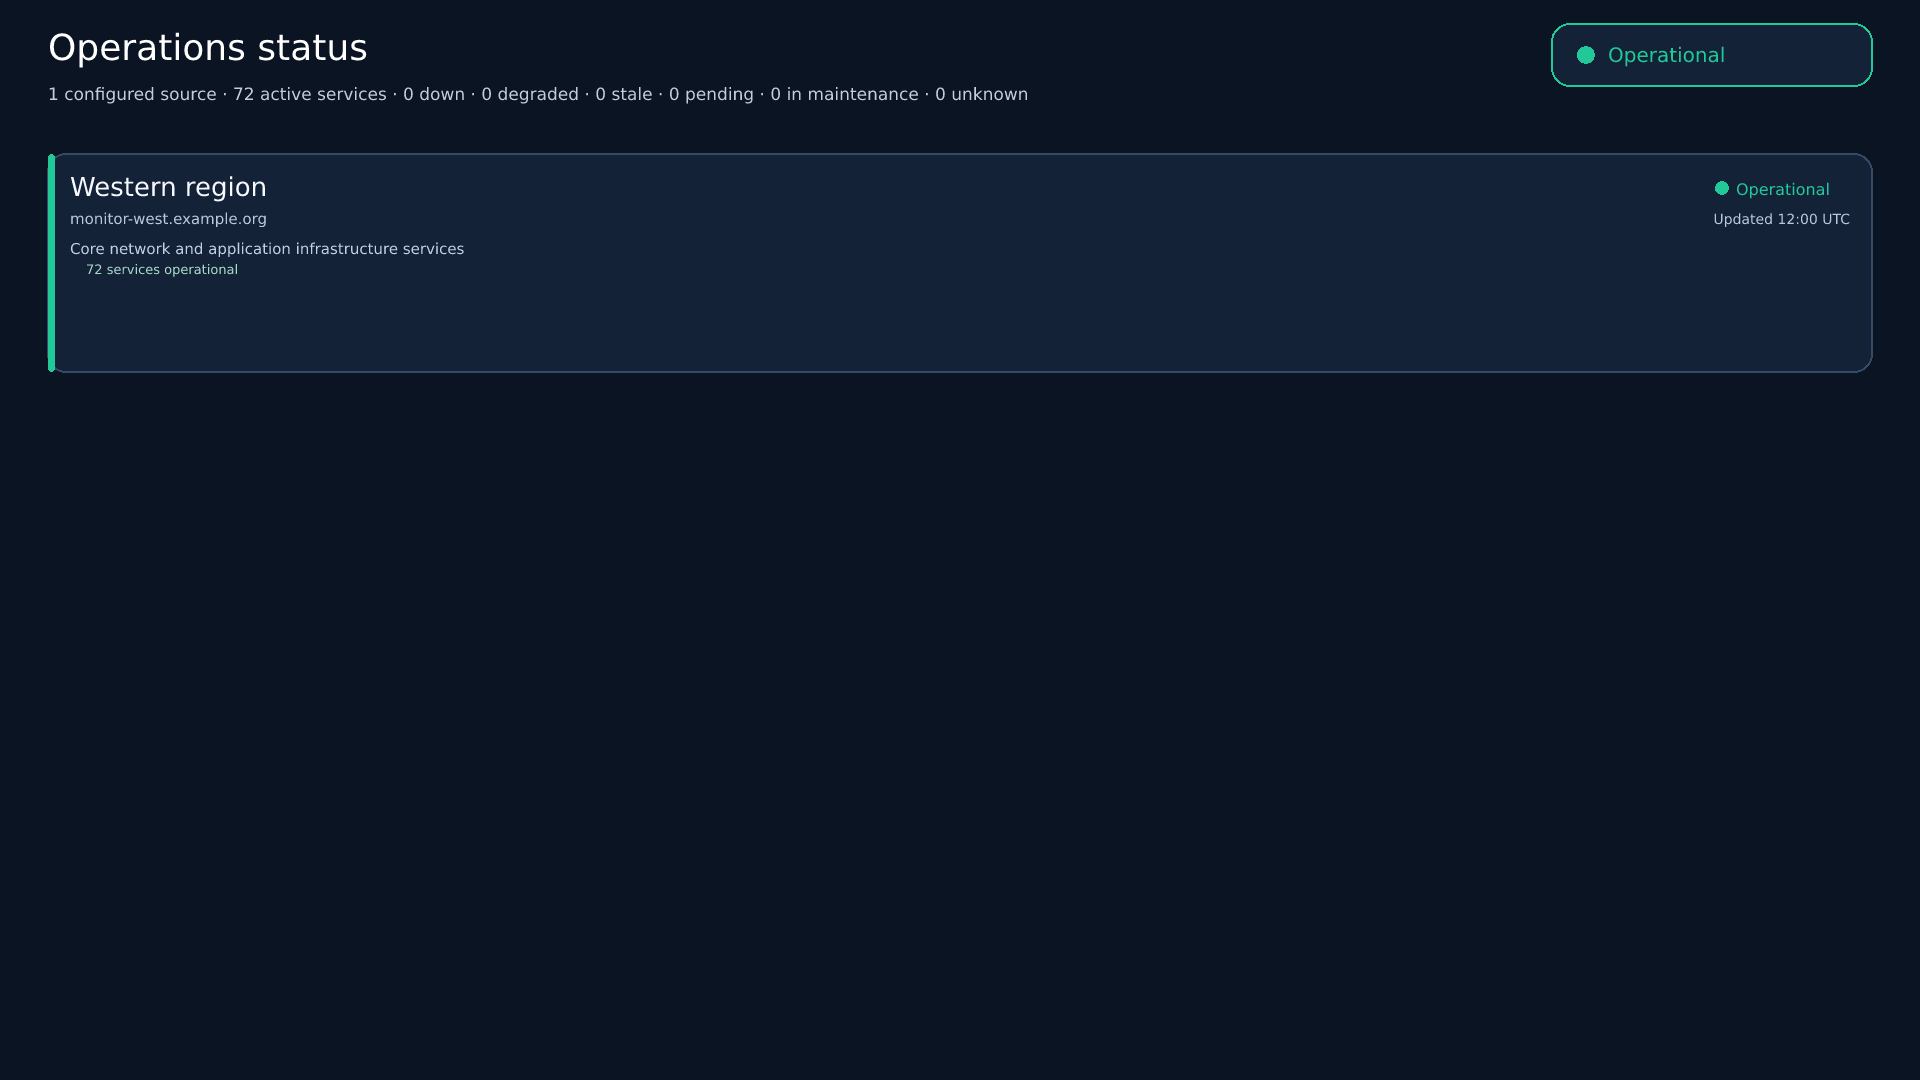
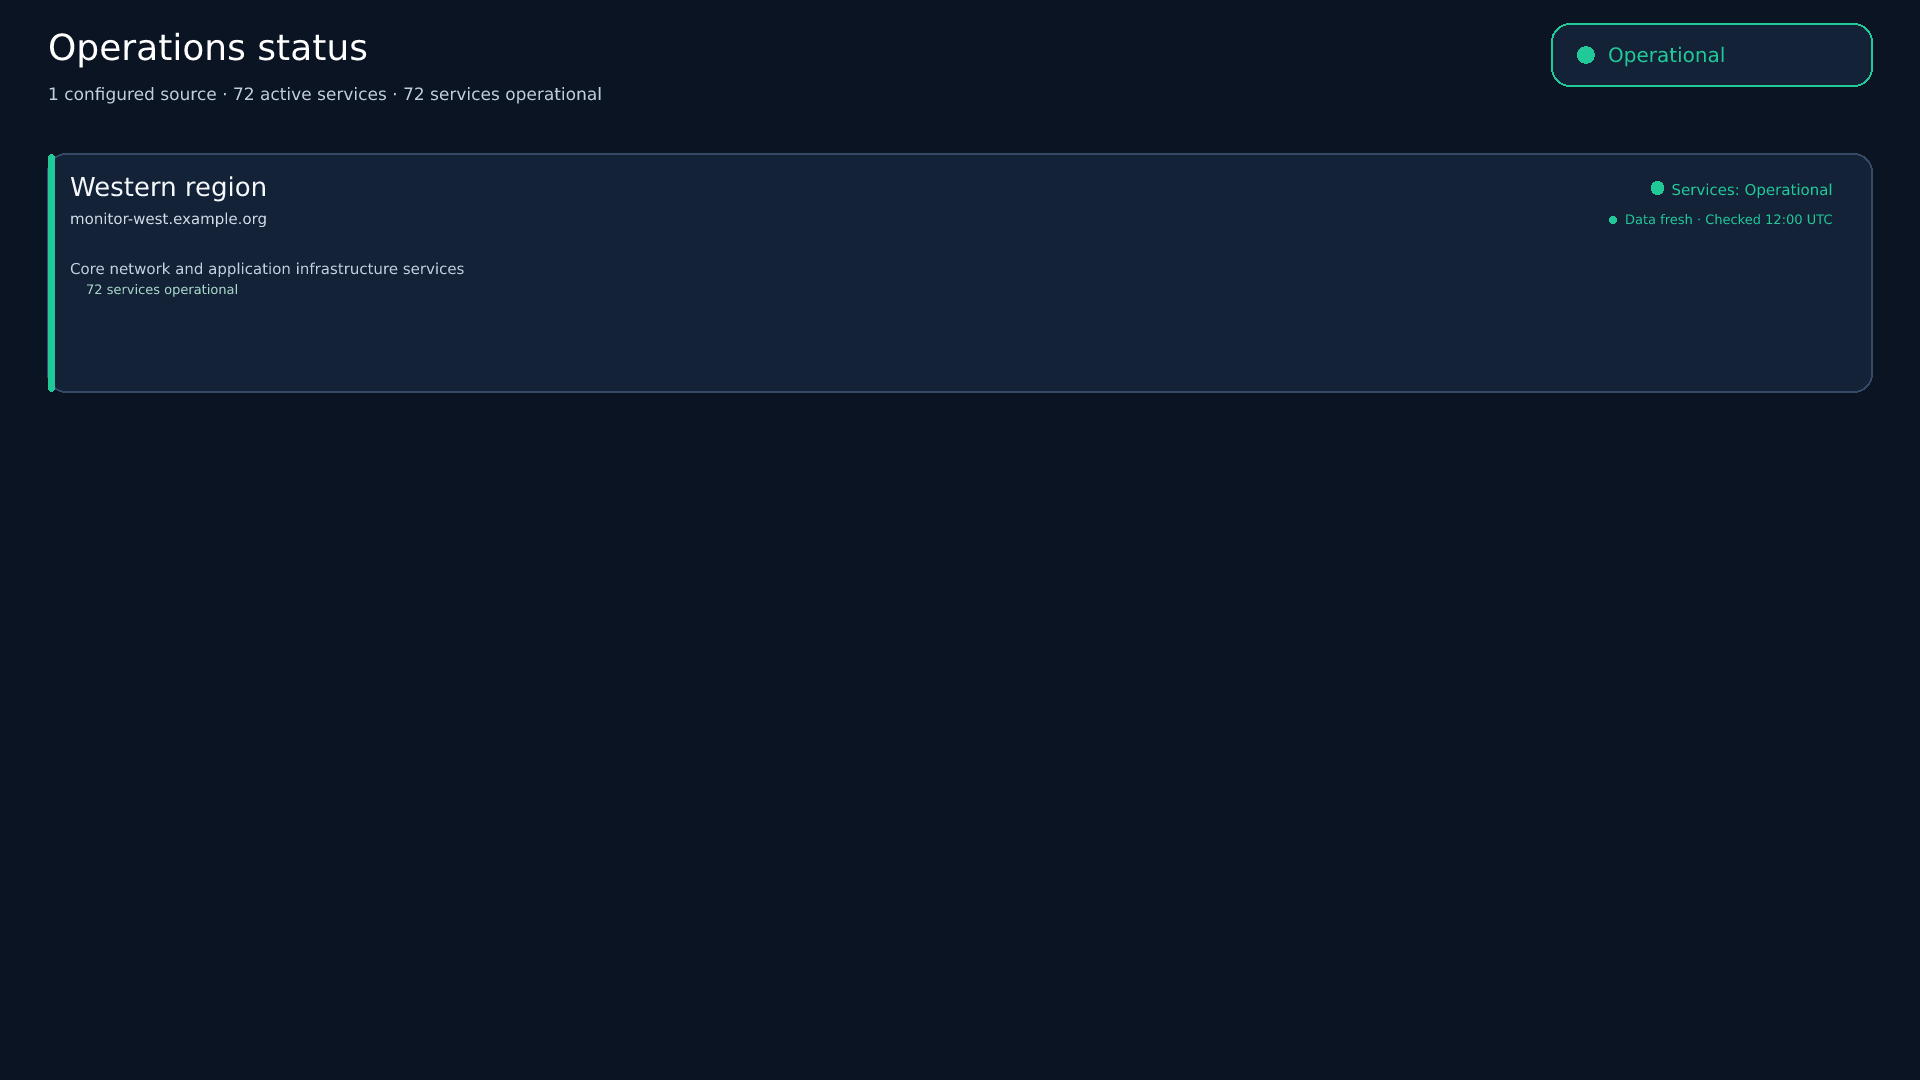
Improve Statuspage dashboard readability

diff --git a/workers/device-sync/src/api-dashboard/render.ts b/workers/device-sync/src/api-dashboard/render.ts
@@ -1,6 +1,6 @@
 import { Resvg, initWasm } from "@resvg/resvg-wasm";
 import { healthLabel, overallHealth, type DashboardSource, type Health } from "./model.ts";
-import { svgEventPanel, svgGroupSummary, svgPanel, svgServiceRow, svgStatusBadge, svgStatusDot, svgText, truncateText, type SvgDashboardEvent } from "./render-components.ts";
+import { svgEventPanel, svgFreshnessBadge, svgGroupSummary, svgPanel, svgServiceRow, svgStatusBadge, svgStatusDot, svgText, truncateText, type SvgDashboardEvent } from "./render-components.ts";
 
 const MAX_PIXELS = 3840 * 2160;
 const MAX_PNG_BYTES = 32 * 1024 * 1024;
@@ -21,9 +21,21 @@ function formatClock(value: string | null | undefined): string | undefined {
   return `${date.toISOString().slice(11, 16)} UTC`;
 }
 
-function formatFetched(value: string, freshness: DashboardSource["freshness"]): string | undefined {
+function formatFetched(value: string): string | undefined {
   const time = formatClock(value);
-  return time ? `${freshness === "fresh" ? "Updated" : "Last check"} ${time}` : undefined;
+  return time ? `Checked ${time}` : undefined;
+}
+
+function freshnessDescription(source: DashboardSource): string {
+  if (source.freshness === "fresh") return "Data fresh";
+  if (source.freshness === "stale") return "Data stale";
+  return "Feed unavailable";
+}
+
+function freshnessColor(source: DashboardSource): string {
+  if (source.freshness === "fresh") return colors.operational;
+  if (source.freshness === "stale") return colors.stale;
+  return colors.down;
 }
 
 function recentGroupChecks(components: DashboardSource["components"], fetchedAt: string): string[] {
@@ -84,17 +96,18 @@ function cardHeightFor(source: DashboardSource, scale: number): number {
   const eventCount = Math.min(3, source.incidents.length + source.maintenance.length);
   const eventPanelHeight = eventCount ? 14 + eventCount * 44 : 0;
   const serviceLines = rows.length;
-  return Math.max(176 * scale, 150 * scale + serviceLines * 24 * scale + (hasDetails ? 20 * scale : 0) + eventPanelHeight * scale);
+  return Math.max(194 * scale, 170 * scale + serviceLines * 24 * scale + (hasDetails ? 20 * scale : 0) + eventPanelHeight * scale + (source.error ? 26 * scale : 0));
 }
 
 function sourceHealth(source: DashboardSource): Health {
   if (source.disabled) return "unknown";
-  if (source.freshness !== "fresh") return "stale";
   const leafStates = source.components.filter((item) => !item.isGroup).map((item) => item.status);
   if (leafStates.includes("down")) return "down";
   if (leafStates.includes("degraded")) return "degraded";
   if (leafStates.includes("maintenance")) return "maintenance";
   if (leafStates.includes("pending")) return "pending";
+  if (leafStates.includes("stale")) return "stale";
+  if (source.freshness !== "fresh") return "unknown";
   if (source.status !== "operational") return source.status;
   if (!leafStates.length || leafStates.includes("unknown")) return "unknown";
   return "operational";
@@ -107,7 +120,7 @@ function card(source: DashboardSource, x: number, y: number, width: number, heig
   const left = x + pad;
   const compact = height < s(170);
   const hasParentGroups = Boolean(source.groups?.length || source.components.some((component) => component.isGroup));
-  const contentY = y + s(compact ? 60 : source.error ? 120 : 100);
+  const contentY = y + s(compact ? 60 : source.error ? 140 : 120);
   const lineH = s(compact ? 18 : Math.max(20, Math.min(24, height / 18)));
   const services = source.components.filter((component) => !component.isGroup);
   const serviceRows = buildServiceRows(source);
@@ -120,25 +133,36 @@ function card(source: DashboardSource, x: number, y: number, width: number, heig
   const visibleEvents = events.slice(0, 3);
   const eventAreaHeight = visibleEvents.length ? s(14 + visibleEvents.length * 44) : 0;
   const hasDetails = serviceRows.some((row) => row.kind === "service" || row.kind === "empty" || row.kind === "summary");
-  const contentOffset = compact ? 60 : source.error ? 120 : 100;
+  const contentOffset = compact ? 60 : source.error ? 140 : 120;
   const maxLines = Math.max(0, Math.floor((height - s(contentOffset) - eventAreaHeight - s(hasDetails ? 20 : 8)) / lineH));
   const showRows = serviceRows.slice(0, maxLines);
   while (showRows.at(-1)?.kind === "group") showRows.pop();
   const visibleServices = showRows.reduce((count, row) => count + (row.kind === "service" ? 1 : row.kind === "summary" ? row.count : 0), 0);
   const hiddenServices = Math.max(0, services.length - visibleServices);
   const hiddenGroups = Math.max(0, serviceRows.filter((row) => row.kind === "group").length - showRows.filter((row) => row.kind === "group").length);
+  const sourceHealthLabel = health === "stale" ? "Stale" : healthLabel[health];
+  const sourceStatusLabel = source.disabled ? "Disabled" : `Services: ${sourceHealthLabel}`;
+  const statusTextWidth = sourceStatusLabel.length * s(compact ? 6.5 : 8.5);
+  const statusTextX = x + width - pad - statusTextWidth;
+  const statusDotX = statusTextX - s(14);
+  const titleMaxChars = Math.max(8, Math.floor((statusDotX - left - s(14)) / s(compact ? 10 : 17)));
   let svg = `<g>${svgPanel(x, y, width, height, scale, colors[health])}`;
-  svg += `<text x="${left}" y="${y + s(compact ? 25 : 42)}" fill="#f5f8fc" font-size="${s(compact ? 17 : 26)}" font-weight="700">${svgText(truncateText(source.displayName, Math.floor((width - s(185)) / s(compact ? 10 : 17))))}</text>`;
-  svg += svgStatusDot(x + width - s(150), y + s(compact ? 20 : 34), s(7), colors[health]);
-  const sourceStatusLabel = source.disabled ? "Disabled" : healthLabel[health];
-  svg += `<text x="${x + width - s(136)}" y="${y + s(compact ? 26 : 41)}" fill="${svgText(colors[health])}" font-size="${s(compact ? 13 : 16)}">${svgText(sourceStatusLabel)}</text>`;
+  svg += `<text x="${left}" y="${y + s(compact ? 25 : 42)}" fill="#f5f8fc" font-size="${s(compact ? 17 : 26)}" font-weight="700">${svgText(truncateText(source.displayName, titleMaxChars))}</text>`;
+  svg += svgStatusDot(statusDotX, y + s(compact ? 20 : 34), s(7), colors[health]);
+  svg += `<text x="${statusTextX}" y="${y + s(compact ? 26 : 41)}" fill="${svgText(colors[health])}" font-size="${s(compact ? 12 : 15)}" font-weight="700">${svgText(sourceStatusLabel)}</text>`;
   if (!compact) {
     const sourceIdentity = source.hostname ?? (source.provider === "uptime-kuma" ? "Uptime Kuma" : "Statuspage");
-    const updated = formatFetched(source.fetchedAt, source.freshness);
-    const identityLimit = Math.max(8, Math.floor((width - pad * 2 - s(170)) / (s(8.5))));
-    svg += `<text x="${left}" y="${y + s(70)}" fill="#b9c9dc" font-size="${s(15)}">${svgText(truncateText(sourceIdentity, identityLimit))}</text>`;
-    if (updated) svg += `<text x="${x + width - pad}" y="${y + s(70)}" text-anchor="end" fill="#b9c9dc" font-size="${s(14)}">${svgText(updated)}</text>`;
-    if (source.error) svg += `<text x="${left}" y="${y + s(94)}" fill="#ffb86c" font-size="${s(14)}">${svgText(truncateText(source.error, Math.floor(width / s(9))))}</text>`;
+    const updated = formatFetched(source.fetchedAt);
+    const freshnessLabel = [freshnessDescription(source), updated].filter(Boolean).join(" · ");
+    const freshnessTextWidth = freshnessLabel.length * s(7.5);
+    const freshnessX = x + width - pad - freshnessTextWidth - s(12);
+    const identityLimit = Math.max(8, Math.floor((freshnessX - left - s(16)) / s(8.5)));
+    svg += `<text x="${left}" y="${y + s(70)}" fill="#d0dbea" font-size="${s(15)}">${svgText(truncateText(sourceIdentity, identityLimit))}</text>`;
+    svg += svgFreshnessBadge(freshnessX, y + s(70), scale, freshnessLabel, freshnessColor(source));
+    if (source.provider === "atlassian-statuspage" && source.statusDescription) {
+      svg += `<text x="${left}" y="${y + s(96)}" fill="#b9c9dc" font-size="${s(14)}">${svgText(truncateText(`Statuspage: ${source.statusDescription}`, Math.floor((width - pad * 2) / s(8))))}</text>`;
+    }
+    if (source.error) svg += `<text x="${left}" y="${y + s(116)}" fill="#ffb86c" font-size="${s(14)}">${svgText(truncateText(source.error, Math.floor(width / s(9))))}</text>`;
   }
   if (source.disabled) svg += `<text x="${left}" y="${y + s(compact ? 48 : 106)}" fill="#aab8ca" font-size="${s(17)}">Source is disabled and not polled</text>`;
   else if (!services.length && !source.error && !hasParentGroups) svg += `<text x="${left}" y="${y + s(compact ? 48 : 106)}" fill="#aab8ca" font-size="${s(17)}">No component data available</text>`;
@@ -208,7 +232,14 @@ export function dashboardSVG(sources: DashboardSource[], width = 1920, height = 
   const disabledSources = sources.length - activeSources.length;
   let svg = `<svg xmlns="http://www.w3.org/2000/svg" width="${width}" height="${height}" viewBox="0 0 ${width} ${height}"><rect width="100%" height="100%" fill="#0b1422"/>`;
   svg += `<text x="${pad}" y="${60 * scale}" fill="#ffffff" font-family="Ribbon Sans" font-size="${36 * scale}" font-weight="700">Operations status</text>`;
-  const summary = `${sources.length} configured ${sources.length === 1 ? "source" : "sources"} · ${totalServices} active ${totalServices === 1 ? "service" : "services"}${disabledSources ? ` · ${disabledSources} disabled ${disabledSources === 1 ? "source" : "sources"}` : ""} · ${downServices} down · ${degradedServices} degraded · ${staleServices} stale · ${pendingServices} pending · ${maintenanceServices} in maintenance · ${unknownServices} unknown`;
+  const statusCounts = [
+    [downServices, "down"], [degradedServices, "degraded"], [staleServices, "stale"],
+    [pendingServices, "pending"], [maintenanceServices, "in maintenance"], [unknownServices, "unknown"],
+  ] as const;
+  const reportedIssues = statusCounts.filter(([count]) => count > 0).map(([count, label]) => `${count} ${label}`);
+  if (staleSources) reportedIssues.push(`${staleSources} stale or unavailable ${staleSources === 1 ? "source" : "sources"}`);
+  const healthySummary = staleSources ? "" : totalServices ? `${totalServices} ${totalServices === 1 ? "service" : "services"} operational` : "No service data";
+  const summary = `${sources.length} configured ${sources.length === 1 ? "source" : "sources"} · ${totalServices} active ${totalServices === 1 ? "service" : "services"}${disabledSources ? ` · ${disabledSources} disabled ${disabledSources === 1 ? "source" : "sources"}` : ""} · ${reportedIssues.length ? reportedIssues.join(" · ") : healthySummary}`;
   svg += `<text x="${pad}" y="${100 * scale}" fill="#c0cede" font-family="Ribbon Sans" font-size="${17 * scale}">${svgText(summary)}</text>`;
   svg += svgStatusBadge(width - pad - 320 * scale, 24 * scale, 320 * scale, 62 * scale, scale, healthLabel[overall], colors[overall]);
   if (staleSources) svg += `<text x="${width - pad - 320 * scale}" y="${112 * scale}" fill="#ffbd78" font-family="Ribbon Sans" font-size="${15 * scale}" font-weight="700">${staleSources} source${staleSources === 1 ? "" : "s"} stale or unavailable</text>`;

diff --git a/workers/device-sync/src/api-dashboard/render.test.ts b/workers/device-sync/src/api-dashboard/render.test.ts
@@ -1,7 +1,7 @@
 import assert from "node:assert/strict";
 import { test } from "node:test";
 import { dashboardSVG, renderDashboardPNG } from "./render.ts";
-import { svgCheckHistory, svgEventPanel, svgGroupSummary, svgPanel, svgServiceRow, svgStatusBadge, svgStatusDot, svgText, truncateText } from "./render-components.ts";
+import { svgCheckHistory, svgEventPanel, svgFreshnessBadge, svgGroupSummary, svgPanel, svgServiceRow, svgStatusBadge, svgStatusDot, svgText, truncateText } from "./render-components.ts";
 import type { DashboardSource } from "./model.ts";
 
 const sample: DashboardSource = { id: "source-1", provider: "uptime-kuma", displayName: "<SCRIPT>alert('x')</SCRIPT>", fetchedAt: "2026-01-01T00:00:00.000Z", freshness: "fresh", status: "operational", statusDescription: "All systems operational", incidents: [], maintenance: [], components: [
@@ -24,7 +24,8 @@ test("disabled sources are labelled separately and do not make active sources st
   assert.match(svg, />Disabled<\/text>/);
   assert.match(svg, /Source is disabled and not polled/);
   assert.match(svg, /2 configured sources · 2 active services · 1 disabled source/);
-  assert.match(svg, /0 stale · 0 pending/);
+  assert.match(svg, /1 unknown/);
+  assert.doesNotMatch(svg, /0 stale|0 pending/);
   assert.doesNotMatch(svg, /One or more sources unavailable or stale/);
 });
 
@@ -78,7 +79,7 @@ test("small source sets use wide cards and identify the Kuma instance and update
   assert.ok(Number(cards[0][4]) < 300, "short status summaries should use compact card heights");
   assert.match(svg, /monitor-west\.example\.org/);
   assert.match(svg, /monitor-east\.example\.org/);
-  assert.match(svg, /Updated 12:34 UTC/);
+  assert.match(svg, /Checked 12:34 UTC/);
 });
 
 test("shared SVG primitives escape text and render status panels, dots, and badges", () => {
@@ -147,8 +148,45 @@ test("source and event freshness labels distinguish updates from failed checks",
     incidents: [{ id: "incident", name: "API interruption", status: "investigating", impact: "major", updatedAt: "2026-01-01T12:20:00.000Z" }],
   };
   const svg = dashboardSVG([source]);
-  assert.match(svg, /Last check 12:34 UTC/);
+  assert.match(svg, /Checked 12:34 UTC/);
   assert.match(svg, /Updated 12:20 UTC/);
+  assert.match(svg, /Services: Unknown/);
+  assert.match(svg, /Data stale/);
+});
+
+test("Statuspage provider status and dashboard feed freshness have separate labels", () => {
+  const source: DashboardSource = {
+    ...sample,
+    provider: "atlassian-statuspage",
+    statusDescription: "All Systems Operational",
+    status: "operational",
+    freshness: "fresh",
+    hostname: "status.example.com",
+    fetchedAt: "2026-01-01T12:34:00.000Z",
+    components: [{ ...sample.components[0], status: "operational" }],
+  };
+  const svg = dashboardSVG([source]);
+  assert.match(svg, /Services: Operational/);
+  assert.match(svg, /Data fresh/);
+  assert.match(svg, /Checked 12:34 UTC/);
+  assert.match(svg, /All Systems Operational/);
+  assert.match(svg, /1 configured source · 1 active service · 1 service operational/);
+});
+
+test("unavailable feeds do not summarize old component data as operational", () => {
+  const unavailable: DashboardSource = {
+    ...sample,
+    provider: "atlassian-statuspage",
+    freshness: "unavailable",
+    status: "stale",
+    statusDescription: "Status source unavailable",
+    hostname: "status.example.com",
+    error: "Status API request failed.",
+  };
+  const svg = dashboardSVG([unavailable]);
+  assert.match(svg, /1 stale or unavailable source/);
+  assert.match(svg, /Feed unavailable/);
+  assert.doesNotMatch(svg, /2 active services · 2 services operational/);
 });
 
 test("Statuspage incidents and scheduled maintenance use a prominent event panel", () => {
@@ -175,6 +213,12 @@ test("shared event panel escapes names and gives scheduled time a separate visua
   assert.match(panel, /MAINTENANCE/);
   assert.match(panel, /Database &lt;upgrade&gt;/);
   assert.match(panel, /Starts 2026-01-02 05:00 UTC/);
+});
+
+test("freshness badge is a reusable, labelled SVG primitive for every feed state", () => {
+  assert.match(svgFreshnessBadge(10, 20, 1, "Data fresh", "#20c997"), /Data fresh/);
+  assert.match(svgFreshnessBadge(10, 20, 1, "Feed unavailable", "#ff647c"), /#ff647c/);
+  assert.doesNotMatch(svgFreshnessBadge(10, 20, 1, '<img onerror="x">', "#20c997"), /<img/);
 });
 
 test("SVG color attributes escape caller-provided values", () => {

diff --git a/workers/device-sync/src/api-dashboard/render-components.ts b/workers/device-sync/src/api-dashboard/render-components.ts
@@ -19,6 +19,11 @@ export function svgStatusBadge(x: number, y: number, width: number, height: numb
   return `<rect x="${x}" y="${y}" width="${width}" height="${height}" rx="${18 * scale}" fill="#142238" stroke="${svgText(color)}" stroke-width="${2 * scale}"/>${svgStatusDot(x + 34 * scale, y + height / 2, 9 * scale, color)}<text x="${x + 56 * scale}" y="${y + height / 2 + 7 * scale}" fill="${svgText(color)}" font-family="Ribbon Sans" font-size="${20 * scale}" font-weight="700">${svgText(label)}</text>`;
 }
 
+/** Compact, reusable feed-health label kept visually distinct from service status. */
+export function svgFreshnessBadge(x: number, y: number, scale: number, label: string, color: string): string {
+  return `${svgStatusDot(x, y - 4 * scale, 4 * scale, color)}<text x="${x + 12 * scale}" y="${y}" fill="${svgText(color)}" font-size="${13 * scale}" font-weight="700">${svgText(label)}</text>`;
+}
+
 export function svgServiceRow(input: { x: number; y: number; right: number; scale: number; name: string; status: string; color: string; statusMeta?: string; compact?: boolean }): string {
   const { x, y, right, scale, name, status, color, statusMeta, compact = false } = input;
   const statusLabel = status === "Operational" ? "" : [status, statusMeta].filter(Boolean).join(" · ");
